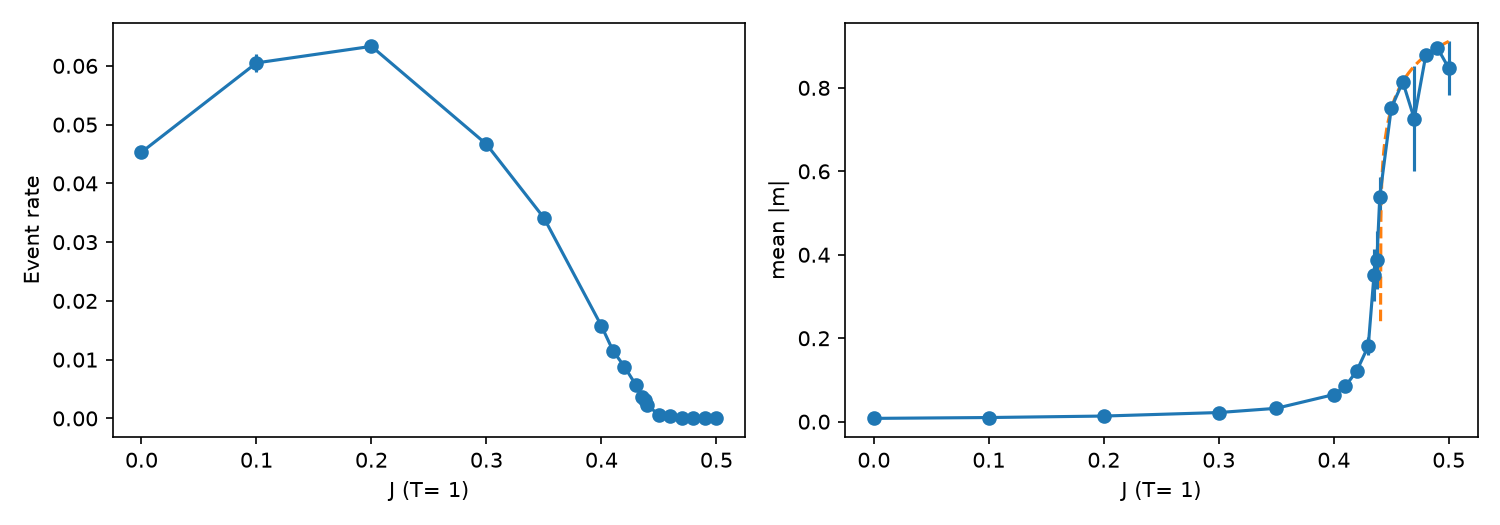
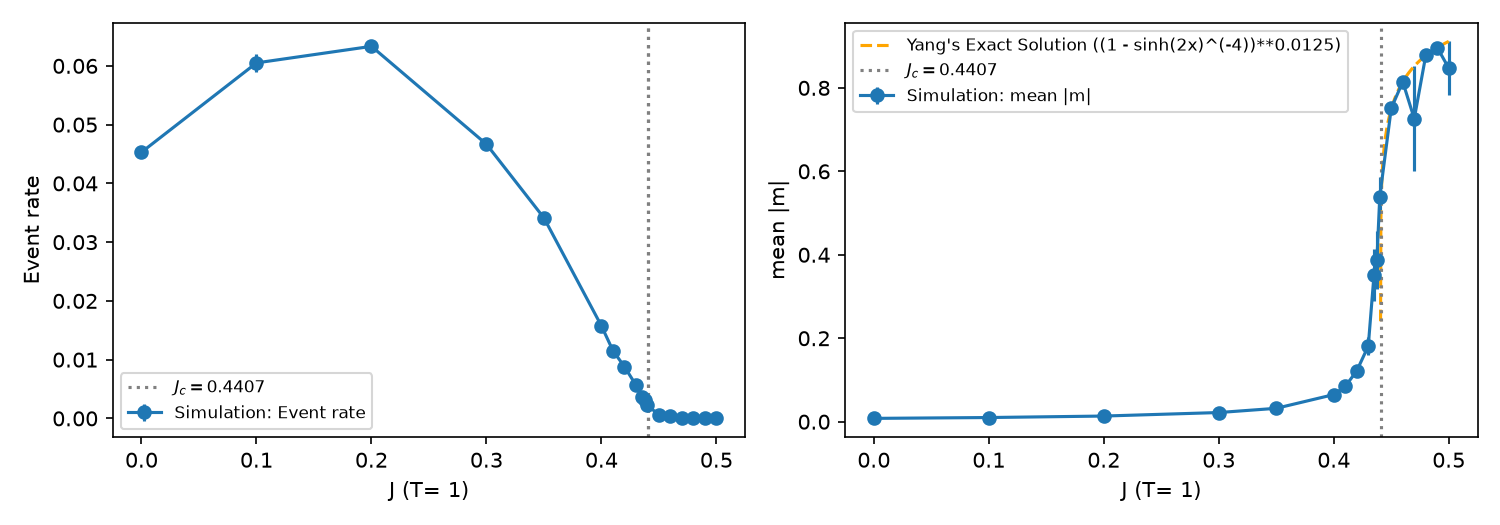
Further changes to plotting code New figure

Changed region(s): [[0.552, 0.0305, 0.8893, 0.2133], [0.092, 0.701, 0.2453, 0.8229]]

diff --git a/summary_plots.py b/summary_plots.py
@@ -2,6 +2,9 @@ import numpy as np
 import pandas as pd
 import matplotlib.pyplot as plt
 
+# Variable that represents critical value for J (at T = 1)
+Jc = 0.5 * np.log(1 + np.sqrt(2))
+
 s = pd.read_csv("scan_summary.csv")
 g = s.groupby('J').agg(rate= ("event_rate", "mean"), rate_se= ("event_rate", "sem")
                        , abs_m= ("mean_abs_m", "mean"), absm_se= ("mean_abs_m", "sem")).reset_index()
@@ -10,21 +13,41 @@ g = s.groupby('J').agg(rate= ("event_rate", "mean"), rate_se= ("event_rate", "se
 fig, ax = plt.subplots(1, 2 ,figsize=(10,3.5))
 
 # Plotting for event rate graph
-ax[0].errorbar(g['J'], g["rate"], g["rate_se"], fmt= "o-")
+ax[0].errorbar(g['J'], g["rate"], g["rate_se"], fmt= "o-", label= "Simulation: Event rate")
 ax[0].set_xlabel("J (T= 1)")
 ax[0].set_ylabel("Event rate")
 
+ax[0].axvline(
+    Jc, color="grey", linestyle=":",
+    label=fr"$J_c={Jc:.4f}$"
+)
+
+ax[0].legend(fontsize= 8)
+
+
+
+
 # Plotting for mean |m| graph
-ax[1].errorbar(g['J'], g["abs_m"], g["absm_se"], fmt= "o-")
+ax[1].errorbar(g['J'], g["abs_m"], g["absm_se"], fmt= "o-", label= "Simulation: mean |m|")
 ax[1].set_xlabel("J (T= 1)")
 ax[1].set_ylabel("mean |m|")
 
-# Variable that represents critical value for J (at T = 1)
-Jc = 0.5 * np.log(1 + np.sqrt(2))
-
 # (1 - sinh(2x) **-4)**0.0125 represents Yang's derivation for exact spontaneous magnetisation (being non-zero above the criticacl coupling)
 x = np.linspace(Jc + 1e-6, g['J'].max(), 200)
-ax[1].plot(x, (1 - np.sinh(2 * x) ** -4) ** 0.125, "--")
+ax[1].plot(x, (1 - np.sinh(2 * x) ** -4) ** 0.125, "--", color= "orange", label= "Yang's Exact Solution ((1 - sinh(2x)^(-4))**0.0125)")
+
+# Line that indicates the position of the critical coupling point
+ax[1].axvline(
+    Jc, color="grey", linestyle=":",
+    label=fr"$J_c={Jc:.4f}$"
+)
+
+ax[1].legend(fontsize=8)
+
+ax[0].axvline(
+    Jc, color="grey", linestyle=":",
+    label=fr"$J_c={Jc:.4f}$"
+)
 
 
 plt.tight_layout()
